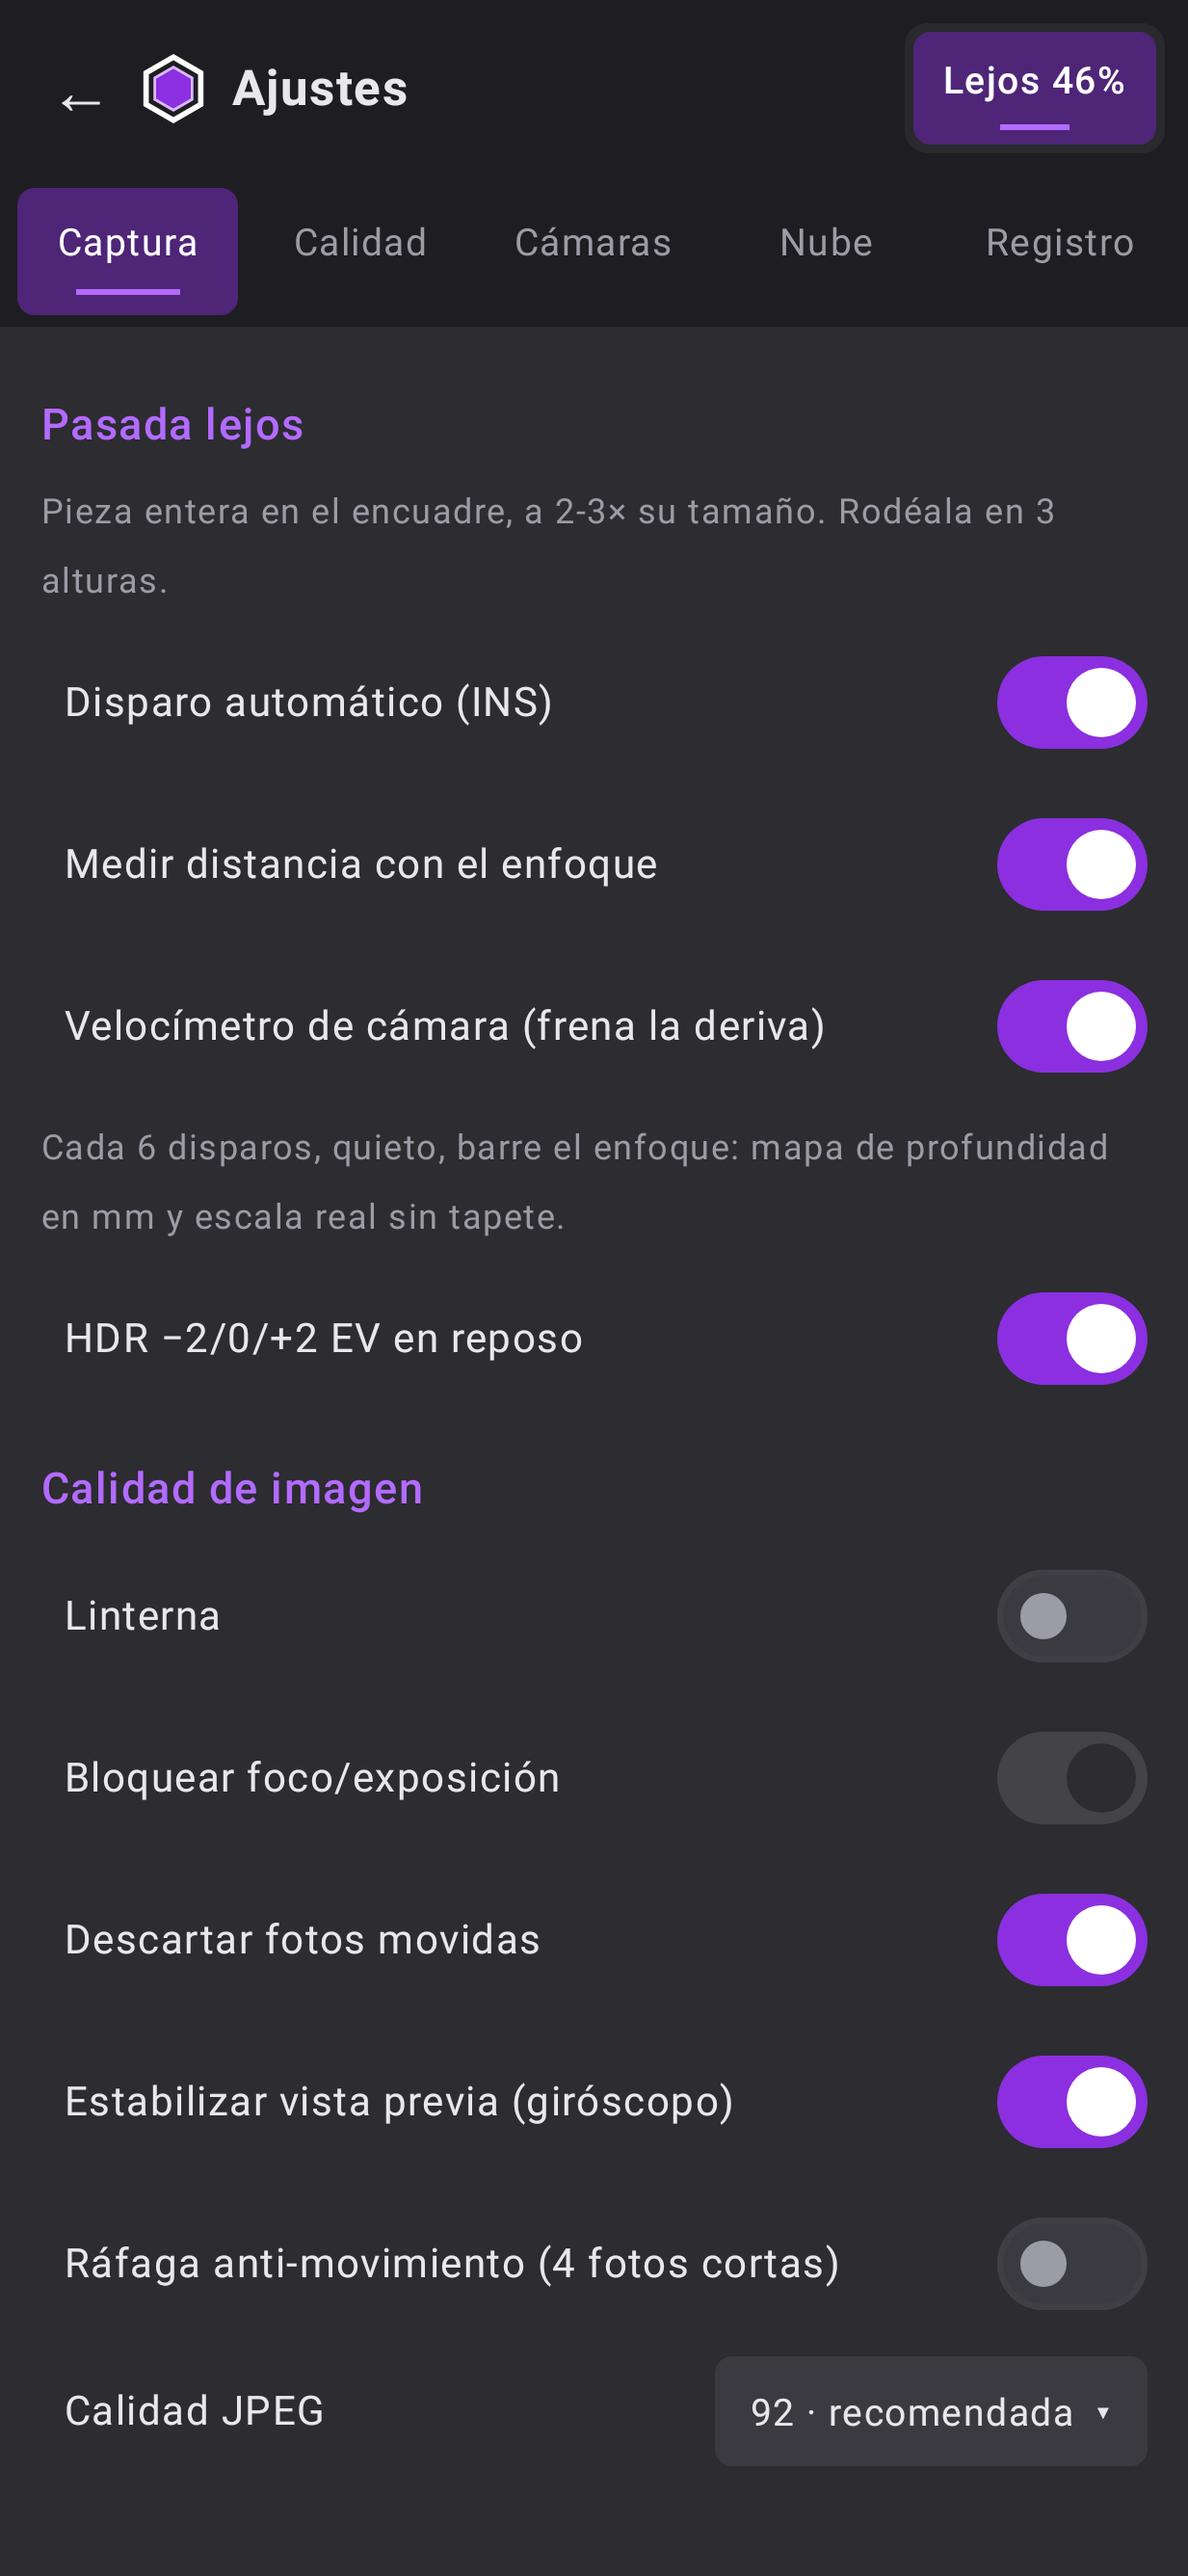
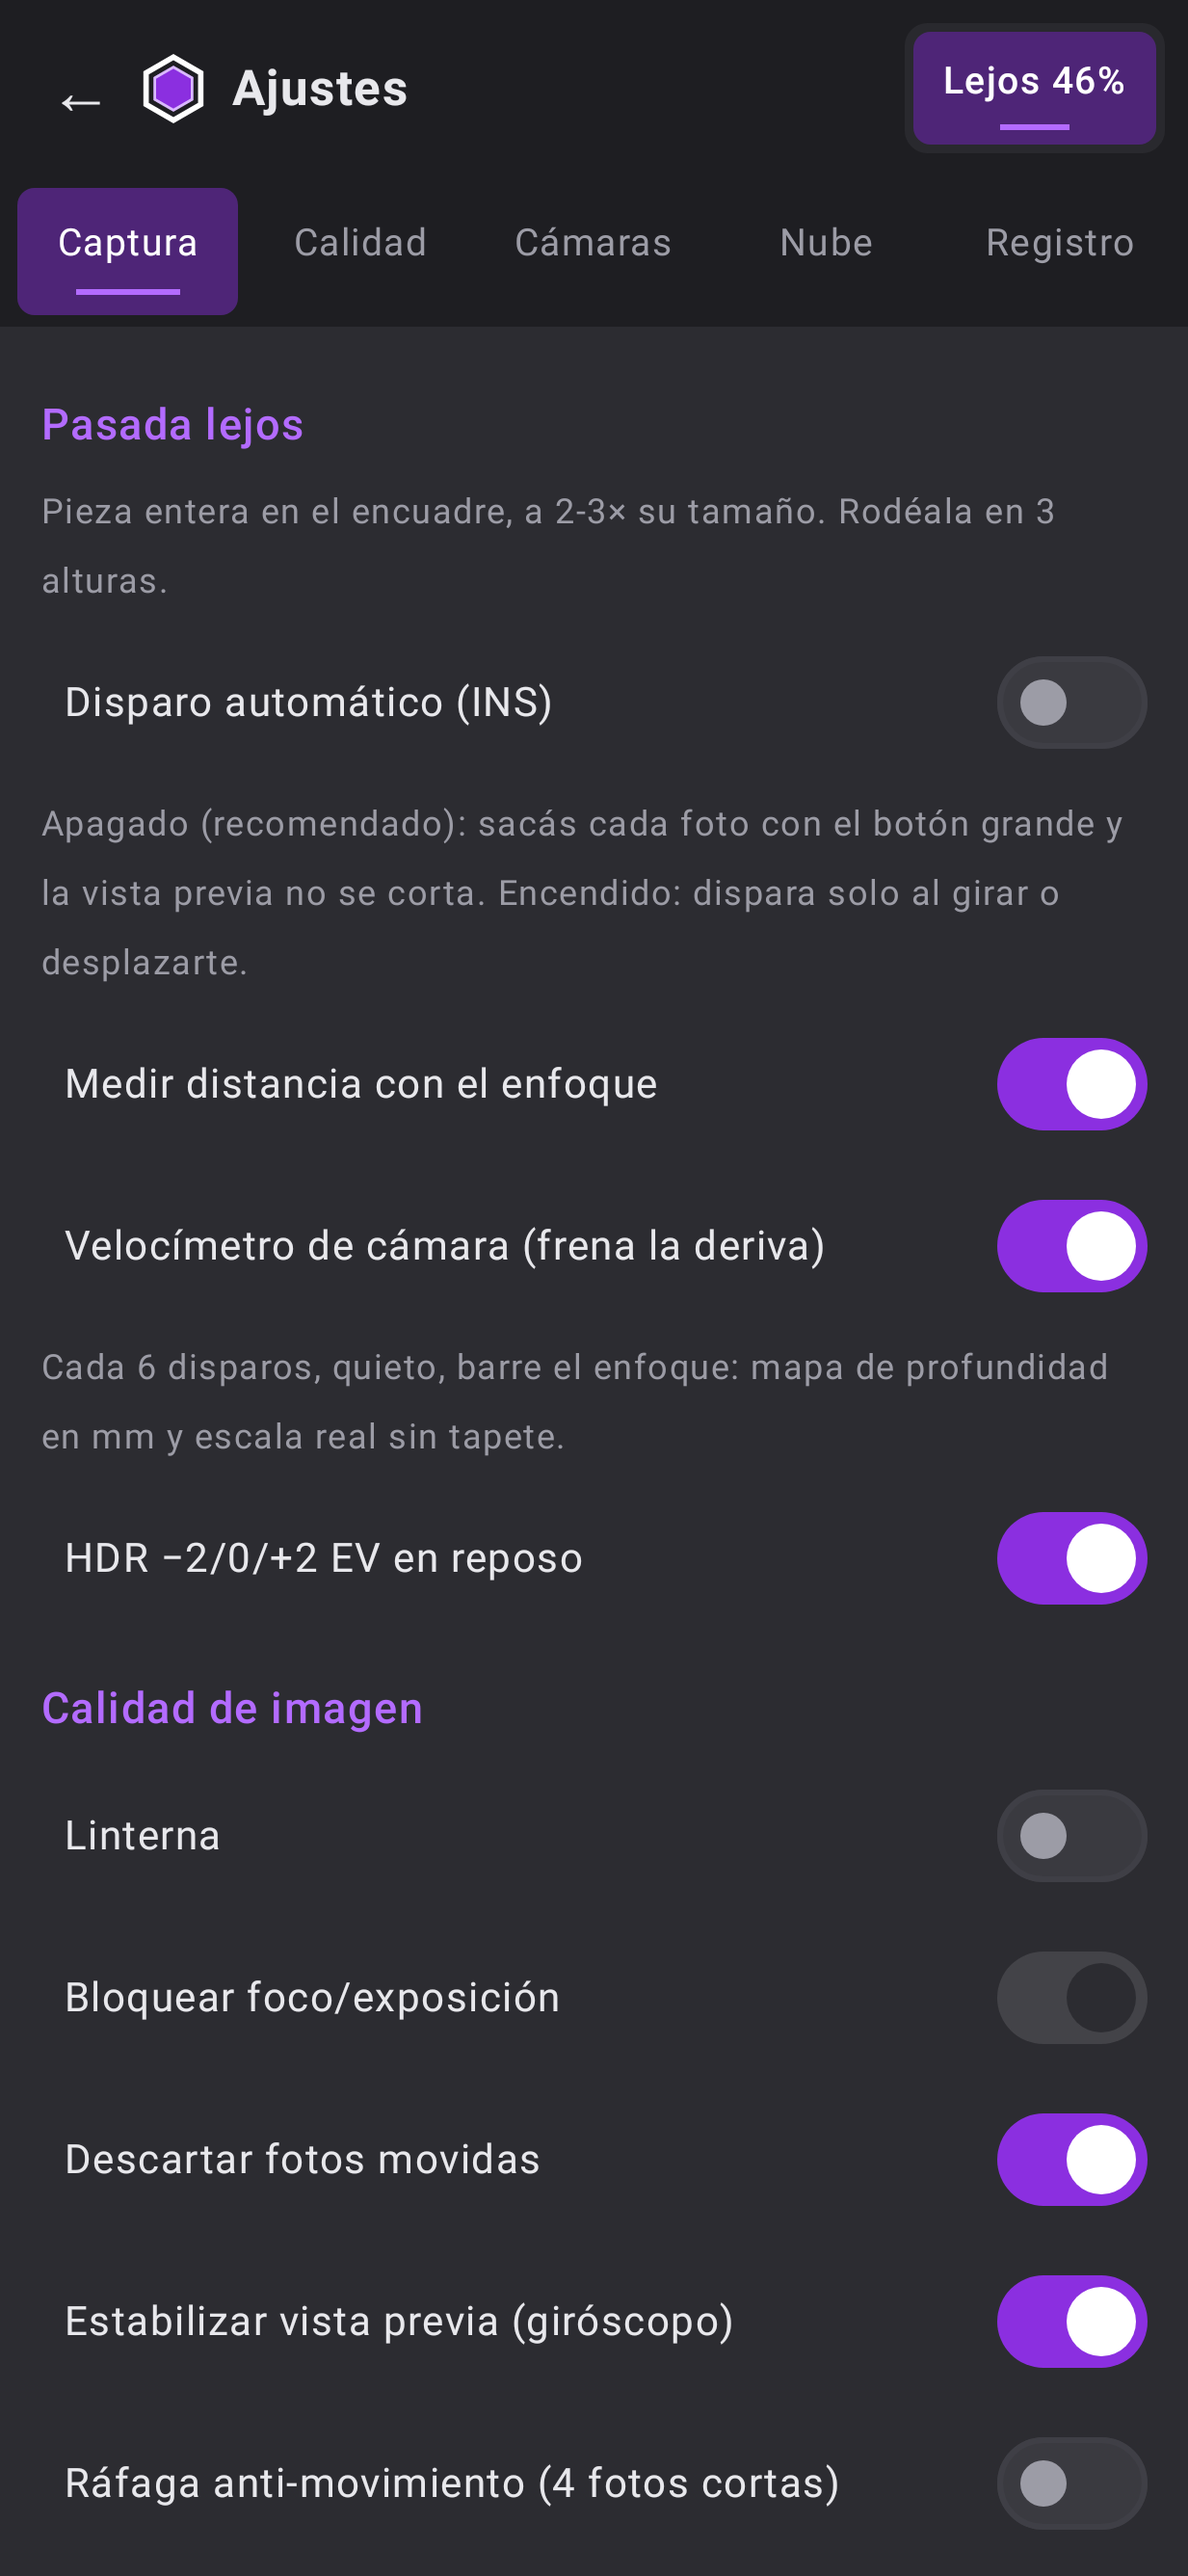
Manual photo capture by default; keep the preview live while moving
Auto-trigger fired every 8 degrees and, on phones where the companion
camera cannot open concurrently, closed and reopened the preview for each
shot, so the preview looked frozen while moving. Now:
- auto-trigger is off by default; the big shutter takes a photo while
  scanning (Terminar moves to the left button);
- a manual shot waits up to 1.2 s for the phone to steady;
- a "Capturando..." notice shows during the shot;
- in auto mode, cameras-by-turns only run when the phone is still.

Claude-Session: https://claude.ai/code/session_01QadJfKzbw9ynwc1fqLJ3m8

diff --git a/app/src/main/java/com/tisma/scanner/ui/ScanViewModel.kt b/app/src/main/java/com/tisma/scanner/ui/ScanViewModel.kt
@@ -48,7 +48,8 @@ data class UiState(
     val openedStreams: List<String> = emptyList(),
     val concurrentSupported: Boolean = false,
     val useConcurrent: Boolean = true,
-    val autoTrigger: Boolean = true,
+    /** Disparo automático por la INS. Apagado: las fotos las saca el usuario (la vista previa no se corta). */
+    val autoTrigger: Boolean = false,
     val hdr: Boolean = true,
     val torch: Boolean = false,
     val lock3A: Boolean = true,
@@ -111,6 +112,10 @@ data class UiState(
     val gpsText: String = "GPS: sin fix",
     val posStdM: Double = 0.0,
     val scanning: Boolean = false,
+    /** Hay una toma en curso (ráfaga o cámaras por turnos): la vista previa puede pararse un instante. */
+    val capturing: Boolean = false,
+    /** Esperando a que el móvil se quede quieto para disparar. */
+    val waitingSteady: Boolean = false,
     val images: Int = 0,
     val triggers: Int = 0,
     val position: Triple<Double, Double, Double> = Triple(0.0, 0.0, 0.0),
@@ -212,6 +217,7 @@ class ScanViewModel(app: Application) : AndroidViewModel(app), MultiCameraContro
 
     /** Evita disparos solapados (ráfagas HDR o secuencias de rotación en curso). */
     @Volatile private var sequenceRunning = false
+        set(v) { field = v; _state.update { it.copy(capturing = v) } }
     private val cameras = MultiCameraController(app, this)
     private var inventory: Map<String, CameraInfo> = emptyMap()
     private var lenses: List<Lens> = emptyList()
@@ -1023,12 +1029,26 @@ class ScanViewModel(app: Application) : AndroidViewModel(app), MultiCameraContro
         }
     }
 
+    private var steadyJob: kotlinx.coroutines.Job? = null
+
+    /**
+     * Foto a mano: si el móvil se está moviendo, espera un momento (máx. ~1,2 s) a que se quede
+     * quieto, así la foto no sale movida y la toma dura lo mínimo.
+     */
     override fun captureNow() {
-        if (session == null) return
-        fire(ins.latest())
+        if (session == null || sequenceRunning || steadyJob?.isActive == true) return
+        steadyJob = viewModelScope.launch {
+            val deadline = SystemClock.uptimeMillis() + STEADY_WAIT_MS
+            if (imu.gyroRate > STEADY_GYRO) {
+                _state.update { it.copy(waitingSteady = true) }
+                while (imu.gyroRate > STEADY_GYRO && SystemClock.uptimeMillis() < deadline) delay(20)
+                _state.update { it.copy(waitingSteady = false) }
+            }
+            if (session != null) fire(ins.latest(), manual = true)
+        }
     }
 
-    private fun fire(st: InsState?) {
+    private fun fire(st: InsState?, manual: Boolean = false) {
         if (sequenceRunning) return
         st?.let { selector.markTriggered(it) }
         val ui = _state.value
@@ -1057,7 +1077,9 @@ class ScanViewModel(app: Application) : AndroidViewModel(app), MultiCameraContro
             try {
                 val rig = rigPlan
                 shoot(bracketUsed, plan, burst)
-                if (ui.rotateCameras && rig.separate.isNotEmpty()) {
+                // Las cámaras por turnos cierran y reabren la vista previa: en disparo automático
+                // sólo con el móvil quieto (si no, al moverlo la vista quedaba congelada).
+                if (ui.rotateCameras && rig.separate.isNotEmpty() && (manual || st?.stationary == true)) {
                     // La compañera no se puede abrir a la vez: se dispara justo después, desde
                     // la misma pose (quieto), y se vuelve a la vista de la pasada.
                     for (g in rig.separate) {
@@ -1309,6 +1331,9 @@ class ScanViewModel(app: Application) : AndroidViewModel(app), MultiCameraContro
         const val MACRO_FOCUS_M = 0.04
         const val IMU_TEST_SECONDS = 60
         const val ANTI_SHAKE_FRAMES = 4
+        /** Giro por debajo del cual se considera el móvil firme para una foto a mano (rad/s). */
+        const val STEADY_GYRO = 0.25
+        const val STEADY_WAIT_MS = 1200L
         /** Cada cuántos disparos se hace un barrido de enfoque automático para medir distancia. */
         const val AUTO_SWEEP_EVERY = 6
         const val DEFAULT_CLOUD_URL = "https://tismaservidores.net"

diff --git a/app/src/main/java/com/tisma/scanner/ui/ScanScreen.kt b/app/src/main/java/com/tisma/scanner/ui/ScanScreen.kt
@@ -141,6 +141,8 @@ private fun CameraScreen(
         ) {
             val toasts = buildList {
                 if (s.rigWarning.isNotEmpty()) add(Triple("Esta pasada no puede usar su cámara · ver ⚙ Cámaras", true, false))
+                if (s.scanning && s.capturing) add(Triple("Capturando… mantené el móvil quieto", false, false))
+                else if (s.scanning && s.waitingSteady) add(Triple("Quieto un momento…", false, false))
                 if (s.gyroRate > 0.6 && s.scanning) add(Triple("Demasiado rápido: las fotos saldrán movidas", true, false))
                 if (s.scanning && s.analyzed > 0 && s.textureRecent < ScanViewModel.LOW_TEXTURE) {
                     add(Triple("Poca textura (%d %%): usa el tapete o spray mate".format((s.textureRecent * 100).toInt()), true, false))
@@ -159,7 +161,7 @@ private fun CameraScreen(
             Spacer(Modifier.height(12.dp))
             Row(Modifier.fillMaxWidth(), horizontalArrangement = Arrangement.SpaceEvenly, verticalAlignment = Alignment.CenterVertically) {
                 when {
-                    s.scanning -> RoundIcon("◉", "Foto") { vm.captureNow() }
+                    s.scanning -> RoundIcon("■", "Terminar") { vm.stopScan() }
                     s.lastZip != null && !s.busy -> RoundIcon("⇪", "Compartir") { onShare(s.lastZip) }
                     else -> Spacer(Modifier.size(52.dp))
                 }
@@ -201,23 +203,23 @@ private fun PassSwitch(s: UiState, vm: ScanActions) {
     }
 }
 
-/** Disparador grande central: Escanear / Detener. */
+/** Disparador grande central: Escanear y, durante el escaneo, sacar foto. */
 @Composable
 private fun Shutter(s: UiState, vm: ScanActions) {
+    // Escaneando, el botón grande saca la foto (Terminar va a la izquierda).
     val scanning = s.scanning
-    val enabled = !s.busy || scanning
+    val enabled = if (scanning) !s.capturing && !s.waitingSteady else !s.busy
     Column(horizontalAlignment = Alignment.CenterHorizontally) {
         Box(
             Modifier.size(78.dp).clip(CircleShape).background(Color.White.copy(alpha = 0.9f)).padding(4.dp)
                 .clip(CircleShape).background(Tisma.Bar).padding(4.dp).clip(CircleShape)
-                .background(if (!enabled) Tisma.Field else if (scanning) Tisma.ErrorToast else Tisma.Purple)
-                .clickable(enabled = enabled) { if (scanning) vm.stopScan() else vm.startScan() },
+                .background(if (!enabled) Tisma.Field else Tisma.Purple)
+                .clickable(enabled = enabled) { if (scanning) vm.captureNow() else vm.startScan() },
             contentAlignment = Alignment.Center,
         ) {
-            if (scanning) Box(Modifier.size(22.dp).clip(RoundedCornerShape(4.dp)).background(Color.White))
-            else Box(Modifier.size(22.dp).clip(CircleShape).background(Color.White))
+            Box(Modifier.size(if (scanning) 30.dp else 22.dp).clip(CircleShape).background(Color.White))
         }
-        Text(if (scanning) "Detener" else "Escanear", color = Tisma.Text, fontSize = 12.sp, modifier = Modifier.padding(top = 4.dp))
+        Text(if (scanning) (if (s.capturing) "Capturando…" else "Foto") else "Escanear", color = Tisma.Text, fontSize = 12.sp, modifier = Modifier.padding(top = 4.dp))
     }
 }
 
@@ -374,6 +376,8 @@ private fun ScanSettings(s: UiState, vm: ScanActions) {
         }
     }
     SettingSwitch("Disparo automático (INS)", s.autoTrigger, onChange = vm::setAutoTrigger)
+    Hint("Apagado (recomendado): sacás cada foto con el botón grande y la vista previa no se corta. " +
+        "Encendido: dispara solo al girar o desplazarte.")
     SettingSwitch("Medir distancia con el enfoque", s.focusDepth, onChange = vm::setFocusDepth)
     SettingSwitch("Velocímetro de cámara (frena la deriva)", s.cameraVelocity, onChange = vm::setCameraVelocity)
     Hint("Cada ${ScanViewModel.AUTO_SWEEP_EVERY} disparos, quieto, barre el enfoque: mapa de profundidad en mm y escala real sin tapete." +

diff --git a/app/src/test/java/com/tisma/scanner/ui/ScanScreenshotTest.kt b/app/src/test/java/com/tisma/scanner/ui/ScanScreenshotTest.kt
@@ -97,6 +97,8 @@ class ScanScreenshotTest {
 
     @Test fun scanning() = shot("scan_tab", scanning, 0)
 
+    @Test fun capturing() = shot("capturing", scanning.copy(capturing = true), 0)
+
     @Test fun captureSettings() = shot("settings_capture", scanning, 0, settings = true)
 
     @Test fun closePassQualityTab() = shot("quality_tab", scanning.copy(
